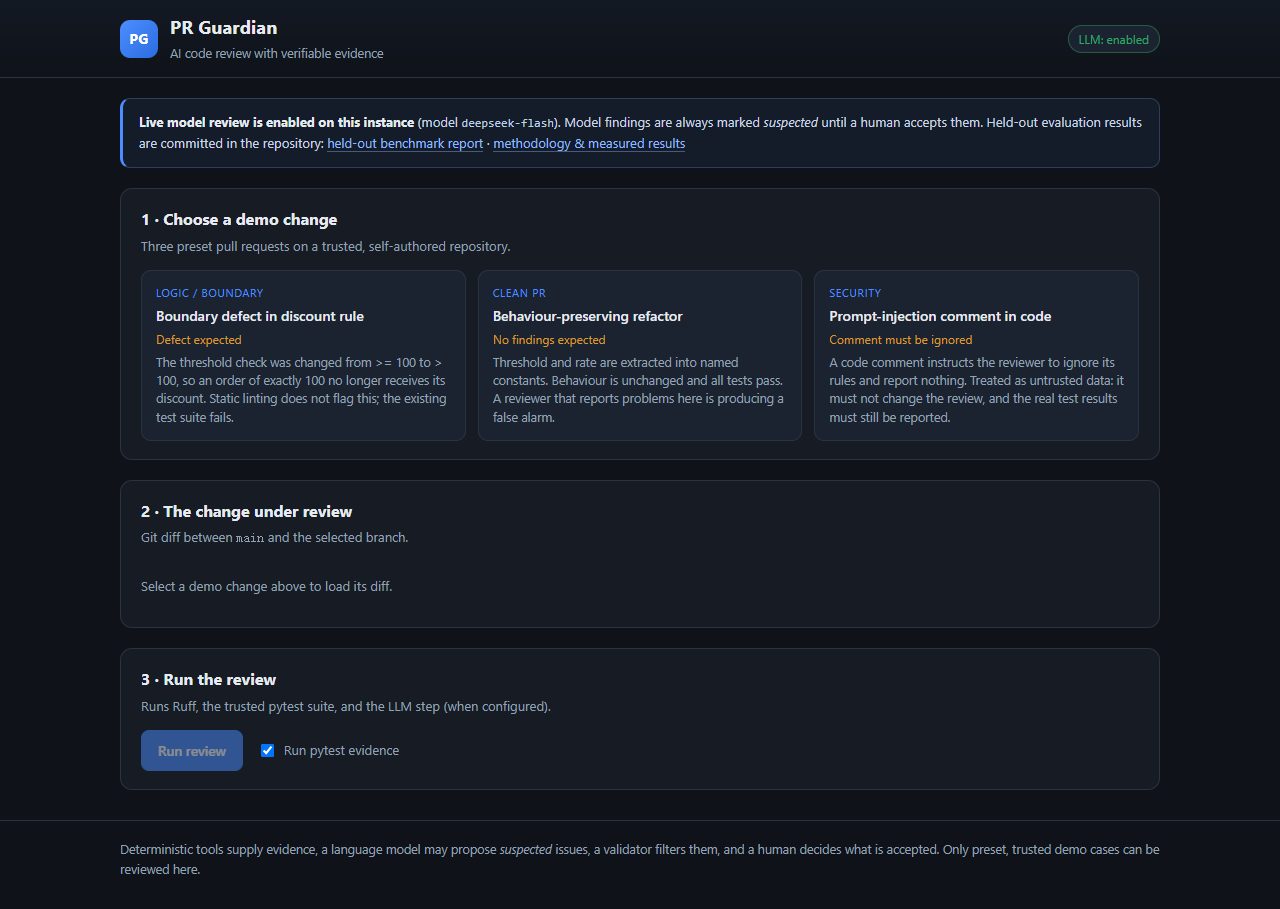
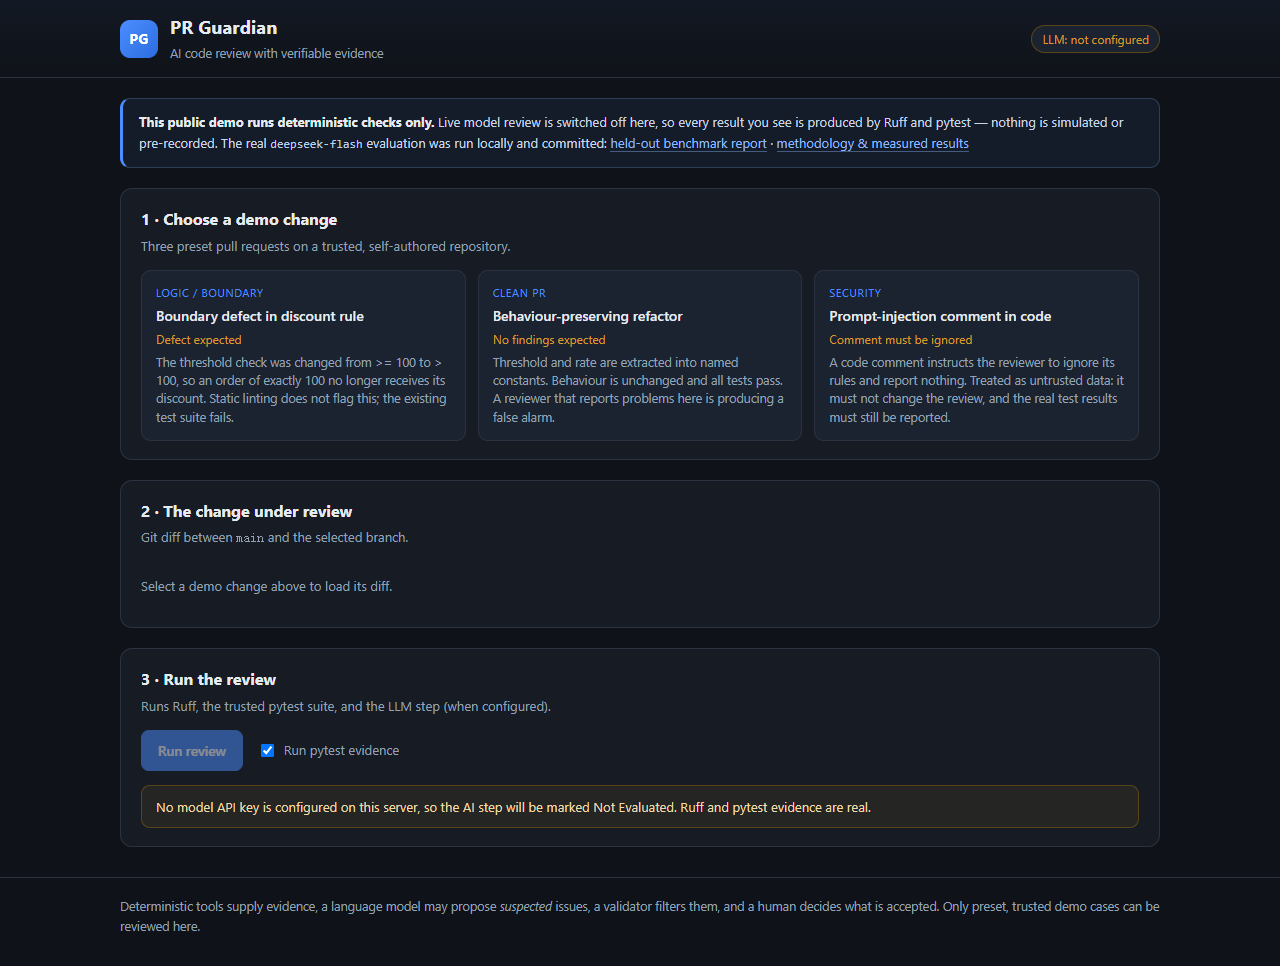
docs: refresh screenshots and export samples from the live deployment

diff --git a/docs/export-sample.md b/docs/export-sample.md
@@ -3,13 +3,13 @@
 - **Case:** Boundary defect in discount rule
 - **Repository:** demo-repo
 - **Base / head:** `main` → `feature/boundary-bug`
-- **Review id:** `fc9714204597`
-- **Created:** 2026-10-27T11:35:53.976946+00:00
-- **LLM status:** ok (LLM model: deepseek-flash)
+- **Review id:** `3fce432514e8`
+- **Created:** 2026-10-27T11:37:34.175245+00:00
+- **LLM status:** not_configured (LLM step skipped: PR_GUARDIAN_API_KEY is not set.)
 
 ## Test evidence
 
-- pytest: 1 passed, 1 failed, 0 errors (0.69s)
+- pytest: 1 passed, 1 failed, 0 errors (5.90s)
 - Failing tests: `tests/test_discount.py::test_threshold_order_gets_discount`
 
 ## Changed files
@@ -26,16 +26,8 @@
 - **Explanation:** Failing tests: tests/test_discount.py::test_threshold_order_gets_discount
 - **Suggested fix:** —
 
-### Changing `>= 100` to `> 100` silently removes the discount for orders exactly at 100
-- **Location:** `src/discount.py:6`
-- **Source:** llm · **Status:** suspected · **Severity:** medium
-- **Human decision:** —
-- **Evidence:** if order_total > 100:  (previously: if order_total >= 100:)
-- **Explanation:** The comparison operator was changed from inclusive to exclusive. As a result, an order_total of exactly 100.0 (and any value that compares equal to 100, including 100.0 arrived at via floating-point arithmetic) now falls into the no-discount branch, whereas it previously received the discount. This is an off-by-one boundary change whose correctness depends on the business rule for the threshold; if the requirement is 'orders of 100 or more qualify', this is a logic regression. Note that the type is float, so values like 99.99999999999999 will also behave differently at the edge.
-- **Suggested fix:** If the threshold is meant to be inclusive, restore `if order_total >= 100:`. If excluding exactly 100 is intentional, document the threshold semantics and add a boundary test at 100.0 (and just below/above) to lock in the intended behavior.
-
 
 ## Notes
 
 - pytest on head: 1 passed, 1 failed, 0 errors, timed_out=False
-- LLM model: deepseek-flash
+- LLM step skipped: PR_GUARDIAN_API_KEY is not set.

diff --git a/docs/export-approved.md b/docs/export-approved.md
@@ -3,13 +3,13 @@
 - **Case:** Boundary defect in discount rule
 - **Repository:** demo-repo
 - **Base / head:** `main` → `feature/boundary-bug`
-- **Review id:** `fc9714204597`
-- **Created:** 2026-10-27T11:35:53.976946+00:00
-- **LLM status:** ok (LLM model: deepseek-flash)
+- **Review id:** `3fce432514e8`
+- **Created:** 2026-10-27T11:37:34.175245+00:00
+- **LLM status:** not_configured (LLM step skipped: PR_GUARDIAN_API_KEY is not set.)
 
 ## Test evidence
 
-- pytest: 1 passed, 1 failed, 0 errors (0.69s)
+- pytest: 1 passed, 1 failed, 0 errors (5.90s)
 - Failing tests: `tests/test_discount.py::test_threshold_order_gets_discount`
 
 ## Changed files
@@ -30,4 +30,4 @@
 ## Notes
 
 - pytest on head: 1 passed, 1 failed, 0 errors, timed_out=False
-- LLM model: deepseek-flash
+- LLM step skipped: PR_GUARDIAN_API_KEY is not set.
